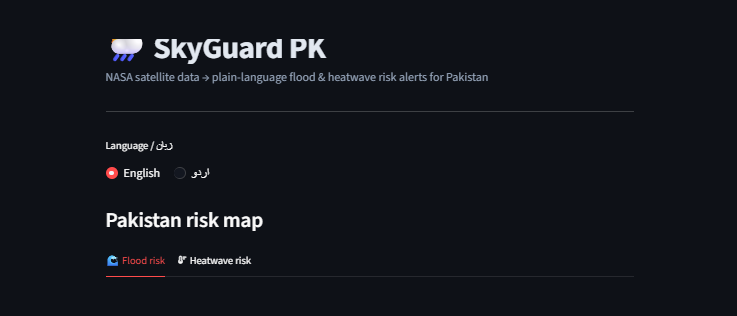
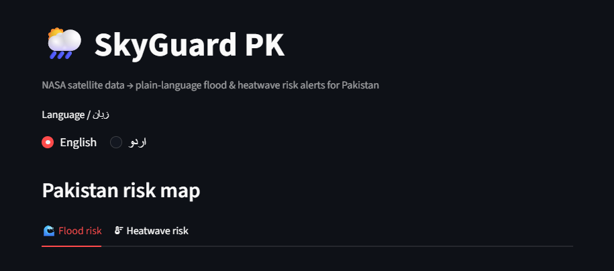
Calibrate thresholds with 2022 flood data, fix humidity gap in heatwave logic

diff --git a/label_risk.py b/label_risk.py
@@ -2,19 +2,101 @@
 SkyGuard PK - Risk Labeling Script
 Defines flood/heatwave risk labels based on rolling weather thresholds.
 
-IMPORTANT (honesty note for README): these thresholds are self-defined,
-reasonable approximations based on commonly cited flood/heatwave triggers
-for the region - not official government disaster classifications.
-Document this clearly in your submission.
+IMPORTANT (honesty note for README): these thresholds are self-defined
+approximations — not official government or NDMA disaster classifications.
+They are calibrated to function as early-warning indicators: they are
+intentionally set below known disaster-level totals so that rising risk
+is flagged while there is still time to act. Document this clearly in
+any submission or deployment context.
+
+Flood threshold rationale — FLOOD_RAIN_7DAY_MM = 100 mm
+--------------------------------------------------------
+Pakistan's 30-year national average annual rainfall is approximately
+250 mm, implying a rough monthly benchmark of ~130.8 mm (Rehman et al.,
+Pakistan Meteorological Department historical records). During the 2022
+catastrophic floods — the worst in Pakistan's recorded history — single-
+day rainfall extremes reached 142 mm in Naushahro Feroze (Sindh,
+August 2022), and Lahore recorded sustained urban flooding above 200 mm
+over multi-day events. These figures represent disaster-scale totals at
+which significant infrastructure damage and displacement were already
+occurring.
+
+The 100 mm / 7-day threshold is deliberately set below these known
+disaster levels. Its purpose is early warning: 100 mm accumulated over
+a week indicates persistently saturated conditions and elevated runoff
+risk, giving emergency managers and communities time to prepare before
+totals reach the 130–200 mm range where historical flooding has
+materialised. It is not intended to match or replicate the exact figures
+from any single event.
+
+The MEDIUM threshold (50 mm / 7 days, i.e. 50 % of HIGH) and the soil-
+wetness conditions further stratify risk at earlier stages of accumulation.
+
+Heatwave threshold rationale — HEATWAVE_TEMP_C = 40 °C
+-------------------------------------------------------
+40 °C is widely cited as the threshold for extreme heat stress in South
+Asian public health literature and aligns with Pakistan Meteorological
+Department heat alert criteria. Three consecutive days (HEATWAVE_CONSECUTIVE_DAYS)
+follows the WMO-adjacent convention used in regional early-warning systems.
+
+Wet-bulb / humidity factor — HEATWAVE_HUMIDITY_THRESHOLD = 60 %
+----------------------------------------------------------------
+Physiological heat stress is determined not by air temperature alone but
+by wet-bulb temperature, which combines heat and humidity. At 40 °C and
+≥ 60 % relative humidity the wet-bulb temperature approaches or exceeds
+35 °C — the level at which the human body cannot cool itself through
+sweating even at rest, posing a direct risk of heat stroke within hours
+(Sherwood & Huber, 2010; Raymond et al., 2020). Pakistan's pre-monsoon
+and monsoon periods routinely combine extreme temperatures with high
+humidity, making this the most dangerous heat scenario for the region.
+
+classify_heat() therefore applies a two-path model:
+  1. Wet-bulb path: temperature >= 40 °C AND humidity >= 60 % → HIGH
+     immediately, regardless of how many consecutive days have elapsed.
+  2. Dry-heat path (original logic): consecutive days at >= 40 °C
+     determine MEDIUM (day 1–2) or HIGH (day 3+) as before.
+
+The wet-bulb path takes priority. A single day of extreme humid heat
+is treated as more dangerous than two days of equally extreme dry heat.
 """
 
 import pandas as pd
 
-# Thresholds - adjust these based on domain research if you have time
-FLOOD_RAIN_7DAY_MM = 100       # 7-day rolling rainfall total considered high
-FLOOD_SOIL_WETNESS = 0.6       # soil wetness fraction considered saturated
-HEATWAVE_TEMP_C = 40           # daily temp considered extreme
-HEATWAVE_CONSECUTIVE_DAYS = 3  # consecutive extreme-heat days to count as heatwave
+# ── Flood thresholds ──────────────────────────────────────────────────────────
+#
+# FLOOD_RAIN_7DAY_MM = 100 mm (7-day rolling sum, per city)
+#   Early-warning level — set below known disaster benchmarks:
+#     - Pakistan 30-yr monthly avg rainfall:  ~130.8 mm
+#     - 2022 single-day extreme (Naushahro Feroze, Aug 2022): 142 mm
+#     - Lahore urban flooding threshold (multi-day):          200 mm+
+#   100 mm / 7 days flags rising accumulation before these levels are reached.
+#
+# FLOOD_SOIL_WETNESS = 0.6 (fraction, 0–1)
+#   Saturated-soil proxy: above 0.6 the ground has limited additional
+#   absorption capacity, increasing surface runoff risk independently of
+#   rainfall rate.
+FLOOD_RAIN_7DAY_MM = 100       # early-warning 7-day total (see rationale above)
+FLOOD_SOIL_WETNESS = 0.6       # soil saturation fraction above which runoff risk rises sharply
+
+# ── Heatwave thresholds ───────────────────────────────────────────────────────
+#
+# HEATWAVE_TEMP_C = 40 °C
+#   Pakistan Meteorological Department extreme-heat alert level; broadly
+#   consistent with South Asian public-health heat-stress literature.
+#
+# HEATWAVE_CONSECUTIVE_DAYS = 3
+#   Minimum run of extreme-heat days before a heatwave is declared HIGH
+#   under the dry-heat path (no qualifying humidity).
+#   Aligns with WMO-adjacent regional early-warning conventions.
+#
+# HEATWAVE_HUMIDITY_THRESHOLD = 60 %
+#   Relative humidity level above which, combined with HEATWAVE_TEMP_C,
+#   the wet-bulb temperature approaches the ~35 °C survivability limit.
+#   A single day meeting both conditions is classified HIGH immediately
+#   (wet-bulb path), bypassing the consecutive-day requirement.
+HEATWAVE_TEMP_C            = 40   # daily max temperature for extreme-heat classification (°C)
+HEATWAVE_CONSECUTIVE_DAYS  = 3    # consecutive dry-heat days required for HIGH heatwave risk
+HEATWAVE_HUMIDITY_THRESHOLD = 60  # relative humidity (%) that activates the wet-bulb HIGH path
 
 
 def label_flood_risk(df):
@@ -55,12 +137,19 @@ def label_heatwave_risk(df):
     )
 
     def classify_heat(row):
+        # Wet-bulb path: extreme heat + high humidity → HIGH on day 1
+        # (physiologically dangerous regardless of duration)
+        if (
+            row["temperature"] >= HEATWAVE_TEMP_C
+            and row["humidity"] >= HEATWAVE_HUMIDITY_THRESHOLD
+        ):
+            return "HIGH"
+        # Dry-heat path: consecutive-day counter (original logic)
         if row["consecutive_hot"] >= HEATWAVE_CONSECUTIVE_DAYS:
             return "HIGH"
-        elif row["consecutive_hot"] >= 1:
+        if row["consecutive_hot"] >= 1:
             return "MEDIUM"
-        else:
-            return "LOW"
+        return "LOW"
 
     df["heatwave_risk"] = df.apply(classify_heat, axis=1)
     return df
